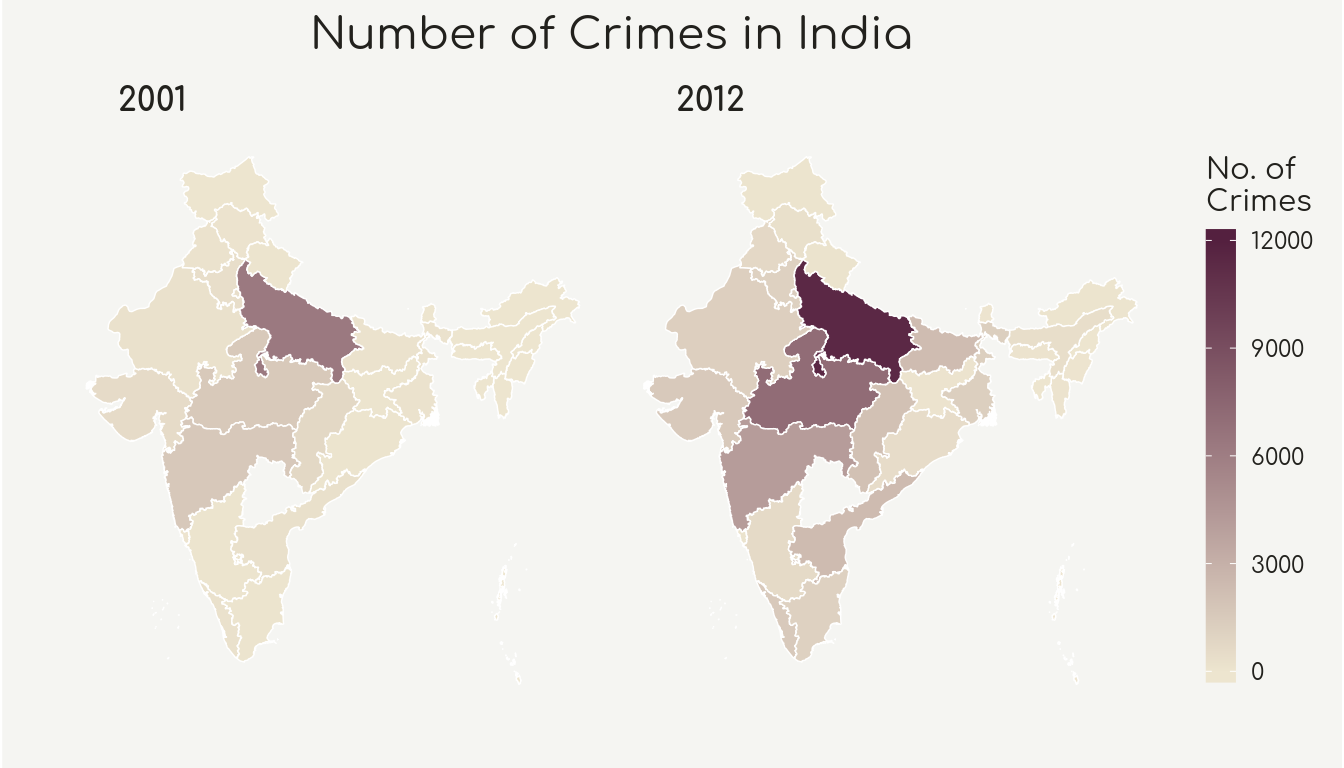
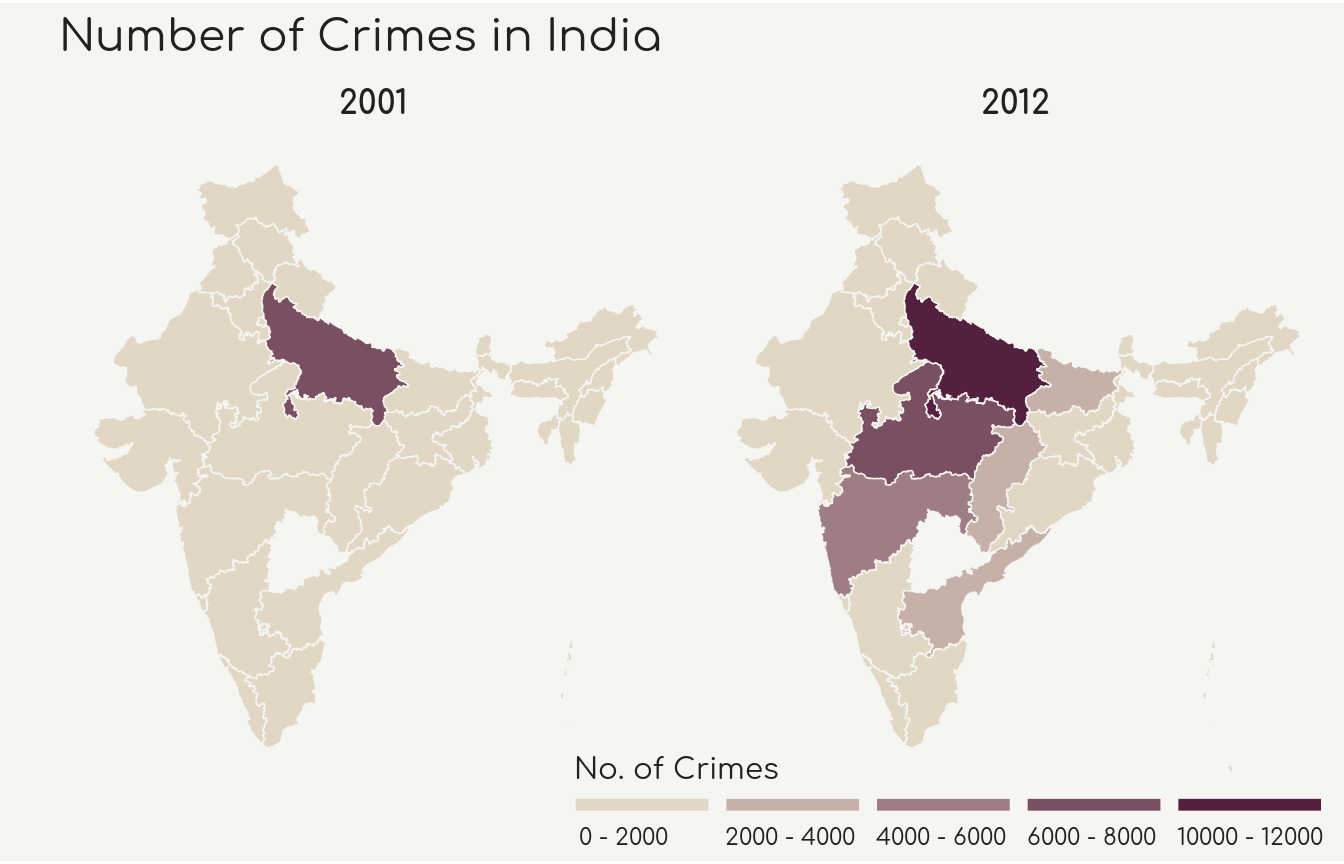
converted maps to use bins

diff --git a/content/blog/2018-02-22-crime-against-children-in-india.html b/content/blog/2018-02-22-crime-against-children-in-india.html
@@ -180,7 +180,7 @@ df %&gt;%
   facet_wrap(~ crime_head, ncol = 2) +
   labs(y = NULL, x = NULL,
        title = &quot;Growth in Number of Crimes in Tamil Nadu&quot;,
-       subtitle = &quot;Based on 4 Most Significant Types of Crime in 2012&quot;) +
+       subtitle = &quot;Most Significant Types of Crime as of 2012&quot;) +
   scale_x_continuous(labels = function(x) as.integer(x)) +
   theme(axis.text.x = element_text(hjust=1))</code></pre>
 <p><img src="/blog/2018-02-22-crime-against-children-in-india_files/figure-html/tamil_nadu_crimes_charts-1.png" width="672" /></p>
@@ -304,7 +304,7 @@ growth.tbl %&gt;%
   scale_fill_manual(values = c(ghibli_palettes$MononokeMedium[3],ghibli_palettes$MononokeMedium[1])) +
   coord_flip() +
     geom_text(aes(y = growth, x = seq(15,1), label = paste0(round(growth),&quot;%&quot;)), 
-              nudge_y = -1, color = my_bkgd, family = my_font) +
+              nudge_y = -0.5, hjust = 1, color = my_bkgd, family = my_font) +
     labs(title = &#39;Geometric Growth Of Total Crimes Against Children&#39;, 
          subtitle = &#39;2001 to 2012&#39;,
          y = &#39;&#39;, x=&#39;&#39;) +
@@ -333,7 +333,7 @@ total_by_state &lt;- df %&gt;%
 med_by_state &lt;- df %&gt;%
   filter(crime_head == &quot;Total Crimes Against Children&quot;, df[year==&#39;2001&#39;] &gt;= 0) %&gt;%
   group_by(state_ut) %&gt;%
-  summarise(median = median(df)) %&gt;%
+  summarise(median = median(df, na.rm = T)) %&gt;%
   arrange(desc(median))
 
 # load shape file
@@ -416,19 +416,33 @@ merge_tbl_01_12 &lt;- merge(states.shp.f, total_by_state_all, by=&quot;id&quot;)
 final.plt.01_12 &lt;- merge_tbl_01_12[order(merge_tbl_01_12$order),]
 final.plt.01_12$year &lt;- parse_date_time(final.plt.01_12$year,&quot;%Y&quot;)
 
+# Set up color palette and binned counts
+pal = c(&quot;#E2D7C5&quot;,&quot;#C6B1A9&quot;,&quot;#9E7D83&quot;,&quot;#7A4F61&quot;,&quot;#54203F&quot;)
+
+label_start &lt;- c(seq(0,10000,2000))
+label_end &lt;- c(seq(2000,12000,2000))
+
+final.plt.01_12$bin &lt;- cut(final.plt.01_12$count, breaks=c(seq(0, 12000, 2000), Inf), 
+                      labels=c(paste0(label_start,&quot; - &quot;,label_end), &quot;12000+&quot;), 
+                      include.lowest = TRUE)
+
 final.plt.01_12 %&gt;%
   filter(year(year) %in% c(2001,2012)) %&gt;%
   ggplot() +
-  geom_polygon(aes(x = long, y = lat, fill = count, group = group), color = &quot;white&quot;, size = 0.25) + 
+  geom_polygon(aes(x = long, y = lat, fill = bin, group = group), color = my_bkgd, size = 0.25) + 
   coord_map() +
-  scale_fill_gradient(name=&quot;No. of\nCrimes&quot;, limits=c(0,12000), low=&quot;#ede5cf&quot;, high=&quot;#54203F&quot;) +
+  scale_fill_manual(values = pal, name=&quot;No. of Crimes&quot;,
+                    guide = guide_legend(keyheight = unit(2, units = &quot;mm&quot;), 
+                                         keywidth = unit(18, units = &quot;mm&quot;), 
+                                         title.position = &quot;top&quot;, label.position = &quot;bottom&quot;,
+                                         title.hjust = 0, label.hjust = 0.1, nrow = 1)) +
   facet_wrap(.~year(year)) +
   map_theme +
-  theme(plot.title = element_text(hjust = 0.5),
-        strip.text = element_text(face=&quot;bold&quot;, size = 12),
-        legend.key.height = unit(12, &quot;mm&quot;), 
-        legend.key.width = unit(4, &quot;mm&quot;),
-        legend.box.just = &quot;top&quot;) +
+  theme(strip.background = element_blank(),
+        strip.text = element_text(face=&quot;bold&quot;, size = 12, hjust = 0.5),
+        legend.box.just = &quot;top&quot;,
+        legend.background = element_blank(),
+        legend.position = c(0.7,0)) +
   labs(x=&quot;&quot;,y=&quot;&quot;,
        title = &quot;Number of Crimes in India&quot;)</code></pre>
 <p><img src="/blog/2018-02-22-crime-against-children-in-india_files/figure-html/map_2001_2012_alt-1.png" width="672" /></p>
@@ -439,11 +453,19 @@ final.plt.01_12 %&gt;%
   base_family = my_font, 
   base_colour =  &quot;#22211d&quot;,
   core = list(fg_params=list(hjust = 0, x=0.1),
-              bg_params=list(fill=c(&quot;white&quot;, &quot;#EFEFEF&quot;))),
+              bg_params=list(fill=&quot;#E2D7C5&quot;)),
   colhead = list(fg_params=list(col= &quot;#22211d&quot;, fontface=&quot;bold.italic&quot;, hjust = 0, x=0.1),
-                 bg_params=list(fill=&quot;#DEDEDE&quot;))
+                 bg_params=list(fill=&quot;#9E7D83&quot;))
  )
 
+label_start &lt;- c(seq(0,3000,1500))
+label_end &lt;- c(seq(1500,4500,1500))
+
+final.plt.med$bin &lt;- cut(final.plt.med$median, breaks=c(seq(0,4500,1500), Inf), 
+                      labels=c(paste0(label_start,&quot; - &quot;,label_end), &quot;4500+&quot;), 
+                      include.lowest = TRUE)
+
+final.plt.med &lt;- final.plt.med %&gt;% filter(!is.na(bin))
 
 median.table &lt;- med_by_state %&gt;% arrange(desc(median)) %&gt;% select(state,median) %&gt;% slice(1:5)
 colnames(median.table) &lt;- c(&quot;State&quot;, &quot;Median&quot;)
@@ -457,16 +479,23 @@ cnames$state &lt;- str_replace(cnames$state, &quot;\\s$&quot;,&quot;\\n&quot;)
 
 median_plot &lt;- ggplot() +
   geom_polygon(data = final.plt.med, 
-               aes(x = long, y = lat, group = group, fill = median), 
-               color = &quot;grey80&quot;, size = 0.25) + 
+               aes(x = long, y = lat, group = group, fill = bin), 
+               color = my_bkgd, size = 0.25) + 
   geom_text(data=cnames, aes(long, lat, label = state), size=2, color = &quot;#22211d&quot;, family = my_font) +
   coord_map() +
-  scale_fill_gradient(name=&quot;Median&quot;, limits=c(0,5200), low=&quot;#ede5cf&quot;, high=&quot;#54203F&quot;) +
-  labs(title=&quot;Median Number of Crimes Against Children\n2001 - 2012&quot;, x = &quot;&quot;, y = &quot;&quot;) +
-  map_theme + theme(plot.title = element_text(hjust=0),
-                    legend.key.height = unit(18, &quot;mm&quot;), 
-                    legend.key.width = unit(4, &quot;mm&quot;),
-                    legend.box.just = &quot;top&quot;)
+  scale_fill_manual(values = pal[1:4], name=&quot;Median&quot;,
+                    guide = guide_legend(keyheight = unit(2, units = &quot;mm&quot;), 
+                                         keywidth = unit(18, units = &quot;mm&quot;), 
+                                         title.position = &quot;top&quot;, label.position = &quot;bottom&quot;,
+                                         title.hjust = 0, label.hjust = 0.1, nrow = 1)) +
+    labs(title=&quot;Median Number of Crimes Against Children&quot;, 
+       subtitle = &quot;By State, 2001 to 2012&quot;,
+       x = &quot;&quot;, y = &quot;&quot;) +
+  map_theme + 
+  theme(plot.title = element_text(hjust=0),
+        legend.box.just = &quot;top&quot;,
+        legend.background = element_blank(),
+        legend.position = c(0.7,0))
 
 g &lt;- tableGrob(median.table,rows=NULL, theme = myt) 
 
